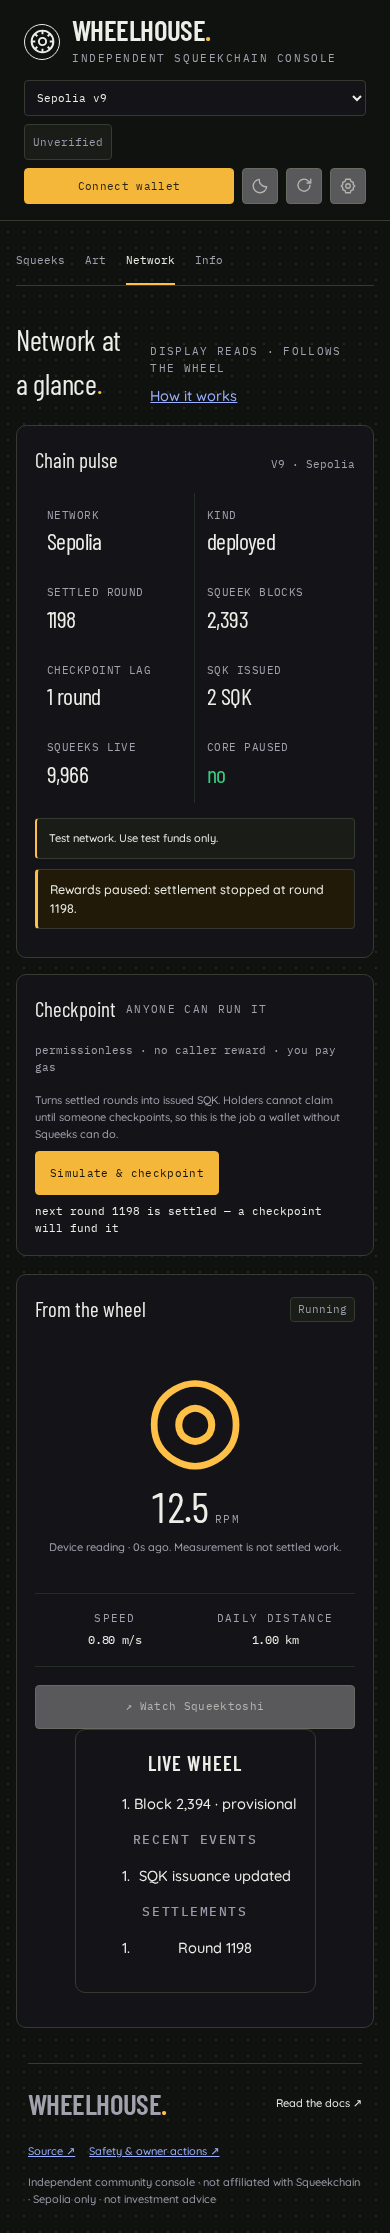
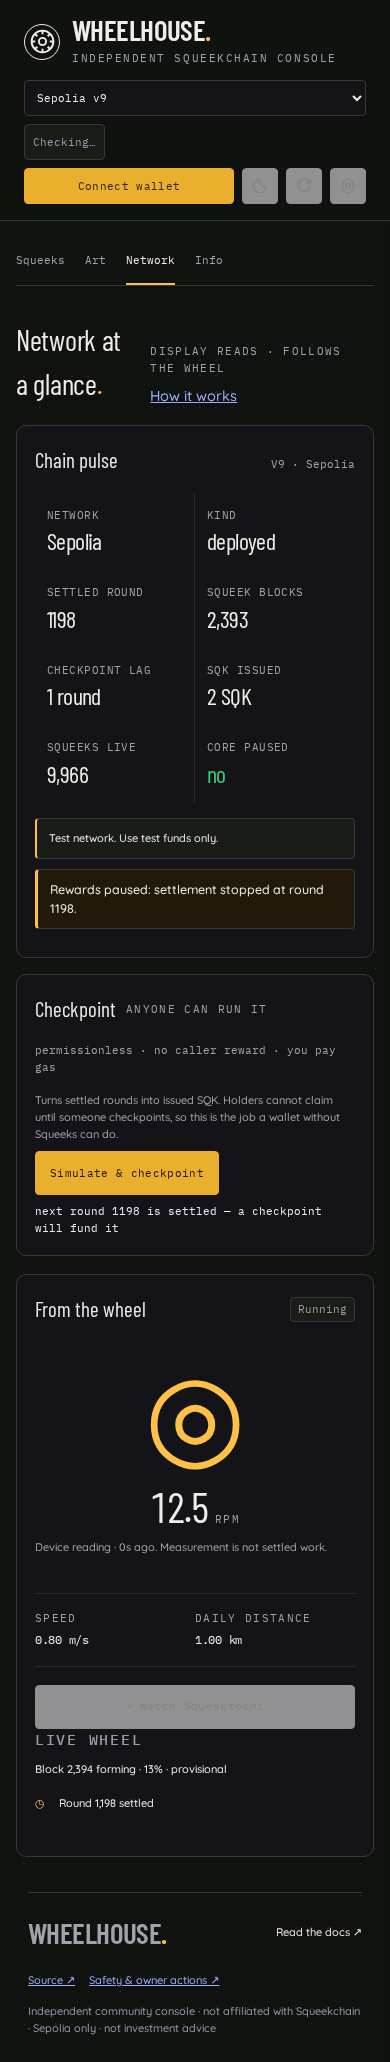
test(console): qualify wallet lifecycle, feed markup and paired screenshots

diff --git a/docs/audit/wallet-wheel.md b/docs/audit/wallet-wheel.md
@@ -1,0 +1,42 @@
+# Central wallet + live wheel review
+
+Scope: static browser app, offline and synthetic intercepted API/RPC only. No live tests, signing, merge, or deployment. Existing ABI exports, deployment pins, RPC trust/simulation gates, and `test/components.mjs:65` are unchanged.
+
+## Implementation
+
+- `web/wallet.js` owns immutable `{status, account, chainId, providerInfo, ethBalance}` snapshots. The app exposes read-only account/chain/balance getters; header, menu, holder, checkpoint gate, chooser and Activity follow its subscription.
+- EIP-6963 request/announcement discovery, an accessible wallet picker when ambiguous, rdns persistence, fallback injected provider, chosen-provider listeners attached once and removed on destruction.
+- Silent authorised restore uses `eth_accounts` only, unless explicitly disconnected. Epochs discard stale restore/balance replies without dropping account/chain events. BroadcastChannel messages trigger local authorised-provider reads, never trust a broadcast account or request a popup in another tab.
+- Profile switches keep the signer, abort reads, increment the generation, clear profile data and reload the same inspected account. Watch addresses remain independent. Pending transaction history survives navigation, account changes and late wallet hashes.
+- Wheel uses one unboxed, left-aligned list, five entries initially and Show more. Documented event IDs/payloads supply numbers and relative times. Settlement, feed settlement and checkpoint for a round collapse to a single row; issuance is labelled as a separate checkpoint, not attributed to a settlement. Unknown events and incomplete issuance descriptions are skipped.
+- Provisional data is one ACTIVE line, based on the documented projected frontier and billionth-block progress, never a numbered list. IDLE hides it.
+- Until actual SDK contract checks complete the chip says Checking…, with an explicit explanation in Info › Trust that API display data has not verified contracts and fresh independent checks run before actions. This does not silently introduce background verification reads or claim API data is verified. A completed SDK result updates the chip; actual check failures retain their reason under Trust.
+
+Official payload references: https://docs.squeekchain.com/developers/api.md (events, settlements, measurement blocks; read during implementation). This work changes no ABI, deployment identity or transaction authority.
+
+## Regression evidence
+
+- Static literal ID audit scans all authored web modules against index.html, plus the wheel item template. Browser wallet tests additionally wrap `getElementById` to reject missing indirect IDs at runtime.
+- Store: silent reload, disconnected reload, listeners once, rdns/picker, lock, account/chain events, outstanding restore race, Unknown balance.
+- Browser: real reloads, account switch during a held load, chain switch, independent watch, two-wallet picker, two actual tabs, profile-switch generation abort/clear/reload with pending Activity retained.
+- Feed: real values/times, deduplication, unknown skipping, five/Show more, no nested panel, single provisional line, IDLE hidden and Checking/Trust copy.
+- Screenshots: `docs/screenshots/wallet-wheel-{before,after}-{v6,v9}-{header,network,squeeks}-{390,1280}.png`. Before source: 61511275040ef6469e6b323ea93b64e0267ba84d. Each phase has twelve images.
+
+## Failures and corrections
+
+1. Superseded profile-switch test expected the signer to clear. It now expects the wallet session to persist. A new held-read browser regression checks cancellation, generation increase, profile data clearing and same-signer reload; pending-transaction tests remain.
+2. Integration-script HTML selector did not match the existing markup. Added the feed container, item template and Show more button, and both static/runtime ID checks.
+3. The preserved-wallet failure fixture previously expected a profile switch to hide a failed wallet read behind a successful network read. It now remains Unavailable; the protected assertion on line 65 is untouched.
+4. Empty-Squeeks screenshot fixtures patched an adapter before connection. Connection correctly rebuilds the generation/adapter, so the test now patches the current adapter after connection and refreshes. All eight empty cases passed after correction.
+5. New unit-test assumptions corrected: ID string concatenation is not a static literal; equal-timestamp rows have no promised tie order. Neither changed production safety rules.
+
+## Completed validation
+
+- `npm test`: all 19 offline scripts pass (`.cache/wallet-offline-final.log`).
+- `npm run test:browser -- --max-failures=1`: 211 mocked tests pass (`.cache/wallet-browser-final.log`).
+- Build: **173,350 / 250,000 gzip bytes across all 12 scripts**, including lazy modules (`dist/js-size.json`).
+- Four audit cases capture all twelve matching after screenshots. The full browser suite includes these audits and the new wallet/feed regressions.
+- `git diff --check`: clean. No live qualification is claimed.
+
+Removed/replaced strings: the generic event labels “SQK issuance updated”, “Round completed”, “Network activity”, “Squeek deposited”, “Squeek withdrawn” (now include real IDs), the generic fallback “Account activity” (the heading remains), separate “Recent events” / “Settlements” subheadings in the wheel, “Display only — verify when an action starts” and its premature “Unverified” chip, and the numbered provisional-block labels. “Unverified” remains available only after an actual non-transport, non-mismatch check failure; stronger Unavailable / Mismatch: stop states remain.
+
